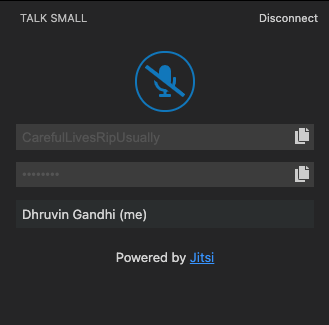
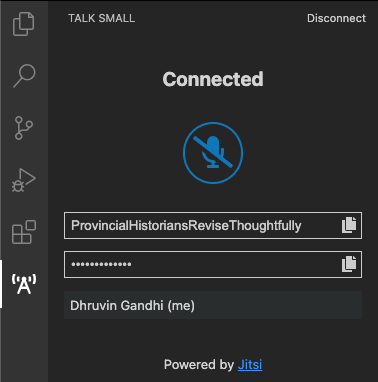
Describe how to use the extension
1. Update screenshots
2. Cancel input on focus out
3. Update UI

diff --git a/src/talk-small/components/Controls.svelte b/src/talk-small/components/Controls.svelte
@@ -33,25 +33,19 @@
         flex-direction: column;
         align-items: center;
     }
-    .mic {
-        border: 2px solid var(--vscode-activityBar-inactiveForeground);
+    .mic.connected {
+        border: 2px solid transparent;
         border-radius: 50%;
-        background-color: transparent;
-        color: var(--vscode-activityBar-inactiveForeground);
+        background-color: var(--vscode-button-hoverBackground);
+        color: var(--vscode-sideBar-background);
         padding: 8px;
         outline: none;
+        cursor: pointer;
 
-        &.connected {
-            border-color: transparent;
-            background-color: var(--vscode-button-hoverBackground);
-            color: var(--vscode-sideBar-background);
-            cursor: pointer;
-
-            &.muted {
-                border-color: var(--vscode-button-hoverBackground);
-                background-color: transparent;
-                color: var(--vscode-button-hoverBackground);
-            }
+        &.muted {
+            border-color: var(--vscode-button-hoverBackground);
+            background-color: transparent;
+            color: var(--vscode-button-hoverBackground);
         }
     }
     .control {
@@ -59,11 +53,10 @@
         justify-content: space-between;
         align-items: center;
         width: 100%;
-        background-color: var(--vscode-input-background);
-        color: var(--vscode-input-foreground);
-        border: 1px solid var(--vscode-input-border);
         padding: 4px;
+        border: 1px solid var(--vscode-foreground);
         > input {
+            color: var(--vscode-foreground);
             background: transparent;
             border: none;
             overflow: hidden;
@@ -72,10 +65,7 @@
         }
         > .copy-icon {
             cursor: pointer;
-            color: var(--vscode-input-foreground);
-            &:hover {
-                color: var(--vscode-activityBar-foreground);
-            }
+            color: var(--vscode-foreground);
         }
         &.room-name {
             margin: 12px 0;
@@ -84,21 +74,24 @@
 </style>
 
 <div class="controls">
-    <button
-        class="mic"
-        class:connected={$state.connected && $state.password}
-        class:muted={$state.muted}
-        on:mousedown={unmute}
-        on:mouseup={mute}
-        on:mouseleave={mute}
-        disabled={!$state.connected || !$state.password}>
-        {#if $state.connected && $state.password && !$state.muted}
-            {@html connectedMicrophone}
-        {:else}
-            {@html disconnectedMicrophone}
-        {/if}
-    </button>
     {#if $state.connected && $state.password}
+        <h2>Connected</h2>
+        <br />
+        <button
+            class="mic"
+            class:connected={$state.connected && $state.password}
+            class:muted={$state.muted}
+            on:mousedown={unmute}
+            on:mouseup={mute}
+            on:mouseleave={mute}
+            disabled={!$state.connected || !$state.password}>
+            {#if $state.connected && $state.password && !$state.muted}
+                {@html connectedMicrophone}
+            {:else}
+                {@html disconnectedMicrophone}
+            {/if}
+        </button>
+        <br />
         <div class="control room-name">
             <input value={$state.roomName} disabled />
             <span
@@ -111,5 +104,28 @@
                 class="copy-icon"
                 on:click={copyPassword}>{@html copyIcon}</span>
         </div>
+    {:else}
+        <h2>Ready to connect</h2>
+        <h3>How to connect:</h3>
+        <ol>
+            <li>Click Connect</li>
+            <li>
+                Enter a room name of your choice. When prompted, you can keep
+                the input empty to have a randomly generated room name.
+            </li>
+            <li>
+                Enter the room's password. You should choose a strong memorable
+                password.
+            </li>
+        </ol>
+        <h3>Push to Talk:</h3>
+        <ul>
+            <li>You can <b>Hold the microphone button</b> and speak</li>
+            <li>
+                Or if the extension view is active, you can
+                <b>hold spacebar</b>
+                while you speak
+            </li>
+        </ul>
     {/if}
 </div>

diff --git a/src/extension.js b/src/extension.js
@@ -91,7 +91,6 @@ class Extension extends EventEmitter {
 		const displayName = this.configuration.get(DISPLAY_NAME)
 		const lastUsedRoomName = this.context.workspaceState.get(LAST_USED_ROOM_NAME)
 		let roomName = await vscode.window.showInputBox({
-			ignoreFocusOut: true,
 			prompt: 'Enter a room name.',
 			placeHolder: 'Leave empty for a random room.',
 			value: lastUsedRoomName
@@ -236,7 +235,6 @@ class Extension extends EventEmitter {
 		this.on(PASSWORD_REQUIRED_EVENT, async () => {
 			// request password
 			const password = await vscode.window.showInputBox({
-				ignoreFocusOut: true,
 				password: true,
 				placeHolder: 'Cannot be left empty.',
 				prompt: 'Enter the room password.'

diff --git a/src/talk-small/components/Participants.svelte b/src/talk-small/components/Participants.svelte
@@ -12,7 +12,7 @@
         > .participant {
             padding: 4px;
             color: var(--vscode-list-hoverForeground);
-            border: 2px solid var(--vscode-list-hoverBackground);
+            border: 2px solid var(--vscode-list-hoverBackground, transparent);
             &.participant.highlighted {
                 border-color: transparent;
                 background-color: var(--vscode-list-hoverBackground);

diff --git a/src/talk-small/components/App.svelte b/src/talk-small/components/App.svelte
@@ -22,6 +22,7 @@
     {#if $state.connected && $state.password}
         <Participants />
     {/if}
+    <br />
     <div class="attribution">
         Powered by
         <a href="https://meet.jit.si">Jitsi</a>

diff --git a/README.md b/README.md
@@ -115,13 +115,13 @@ The extension uses Jitsi as backend to provide communication. Read
 
     ![Connected](screenshots/mute.png)
 
-5. Speaking
+5. Push to Talk
 
     ![Speaking](screenshots/unmute.png)
 
 6. Example conference
 
-    ![Example Conference](screenshots/connected.png)
+    ![Example Conference](screenshots/example.png)
 
 ## Links:
 
